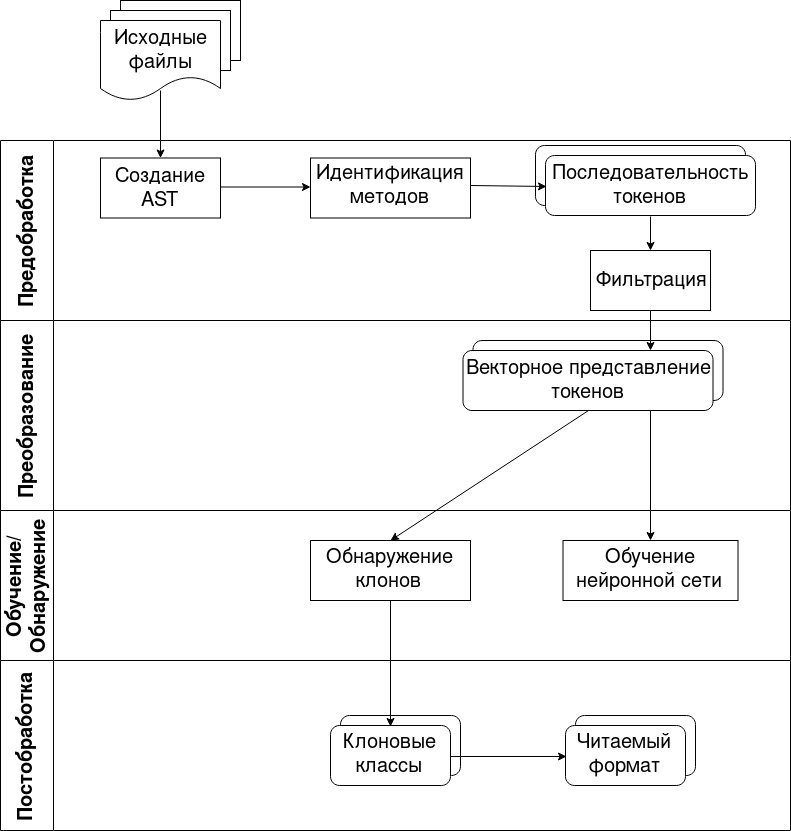
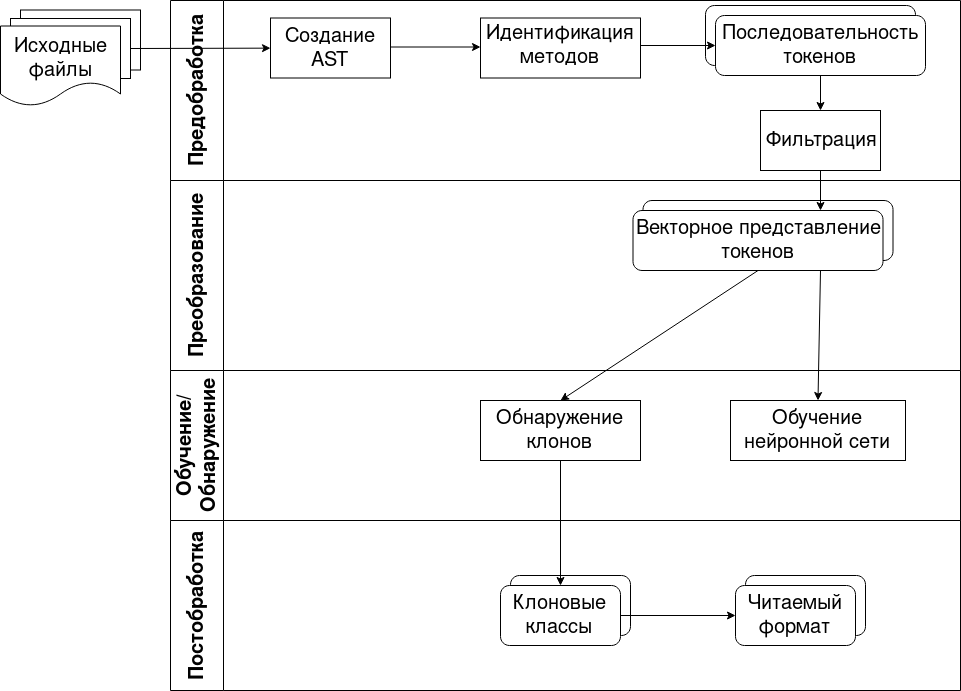
Fixes

diff --git a/master_present/slides.md b/master_present/slides.md
@@ -4,6 +4,8 @@
 
 # Что такое клон?
 
+Участок исходного кода, который может встречаться более чем однажды (с внесенными изменениями или без), как внутри одной, так и нескольких программных сущностей.
+
 # Причины возникновения
 
 - Повторное использование кода
@@ -24,14 +26,16 @@
 
 # Техники обнаружения клонов
 
-<!--
- ![tecs]()
--->
+- Анализ текста
+- Анализ токенов
+- Анализ синтаксических деревьев
+- Анализ графов
+- Анализ метрик
+- Гибридные методы
+
 # Использование нейронных сетей
 
-<!--
 ![Usage](merge)
--->
 
 # Что такое РНН
 
@@ -53,7 +57,7 @@
 
 # Этапы
 
-![stages](struct)
+![stages](struct1)
 
 # Выборка данных
 
